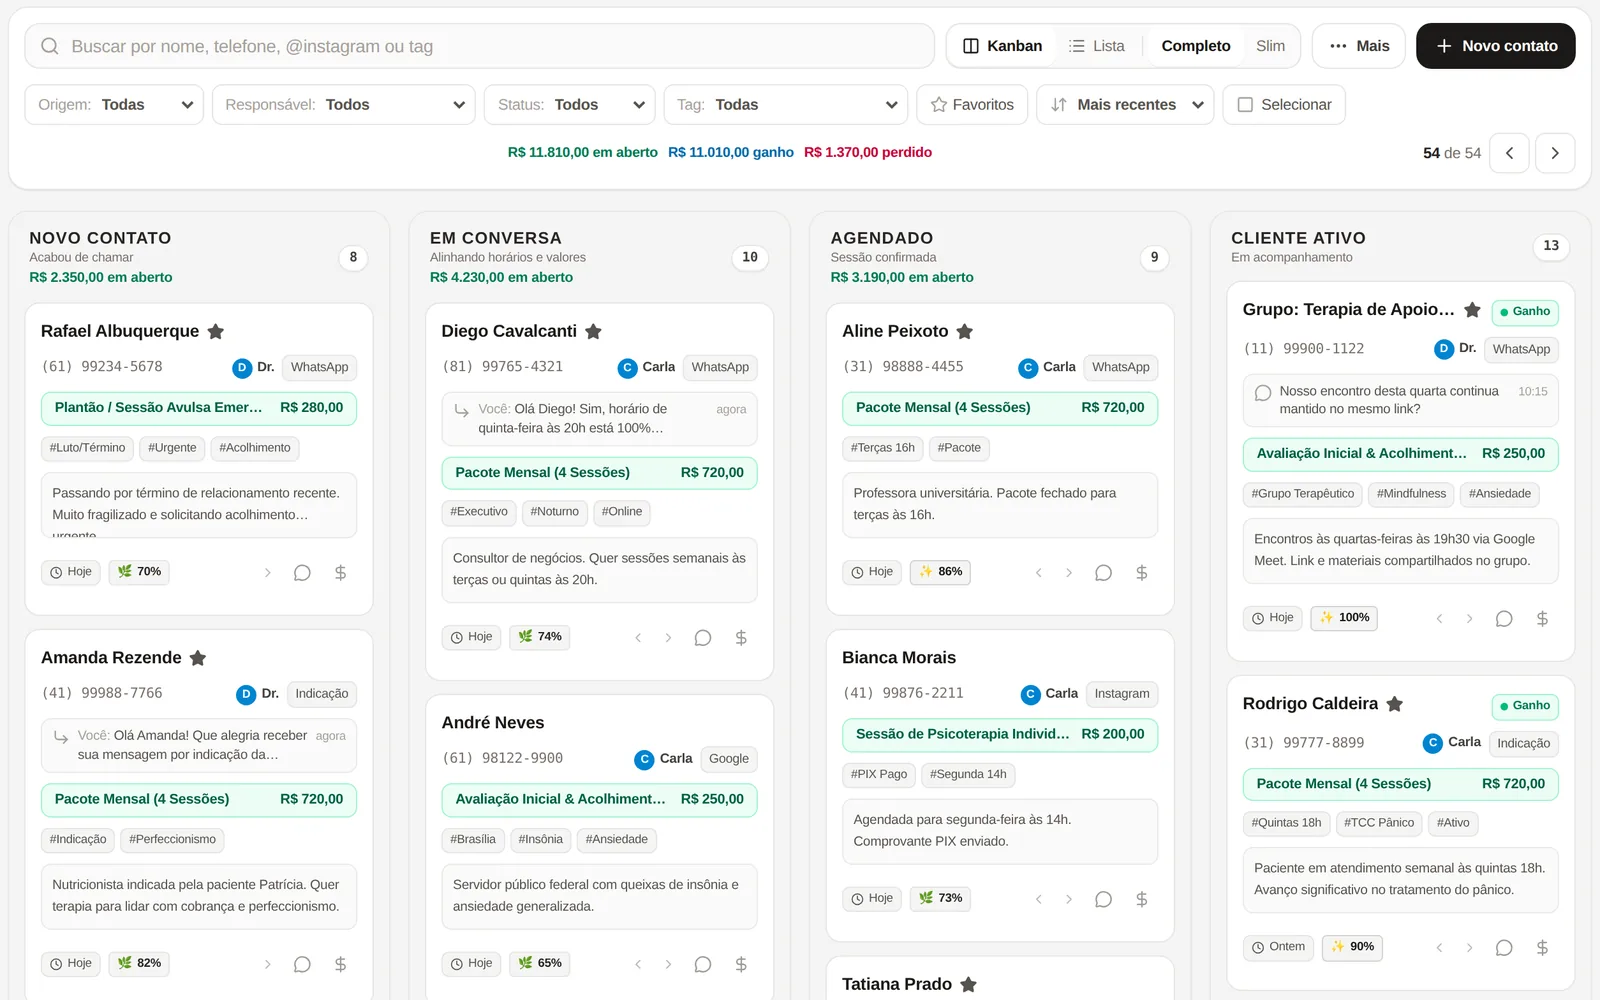
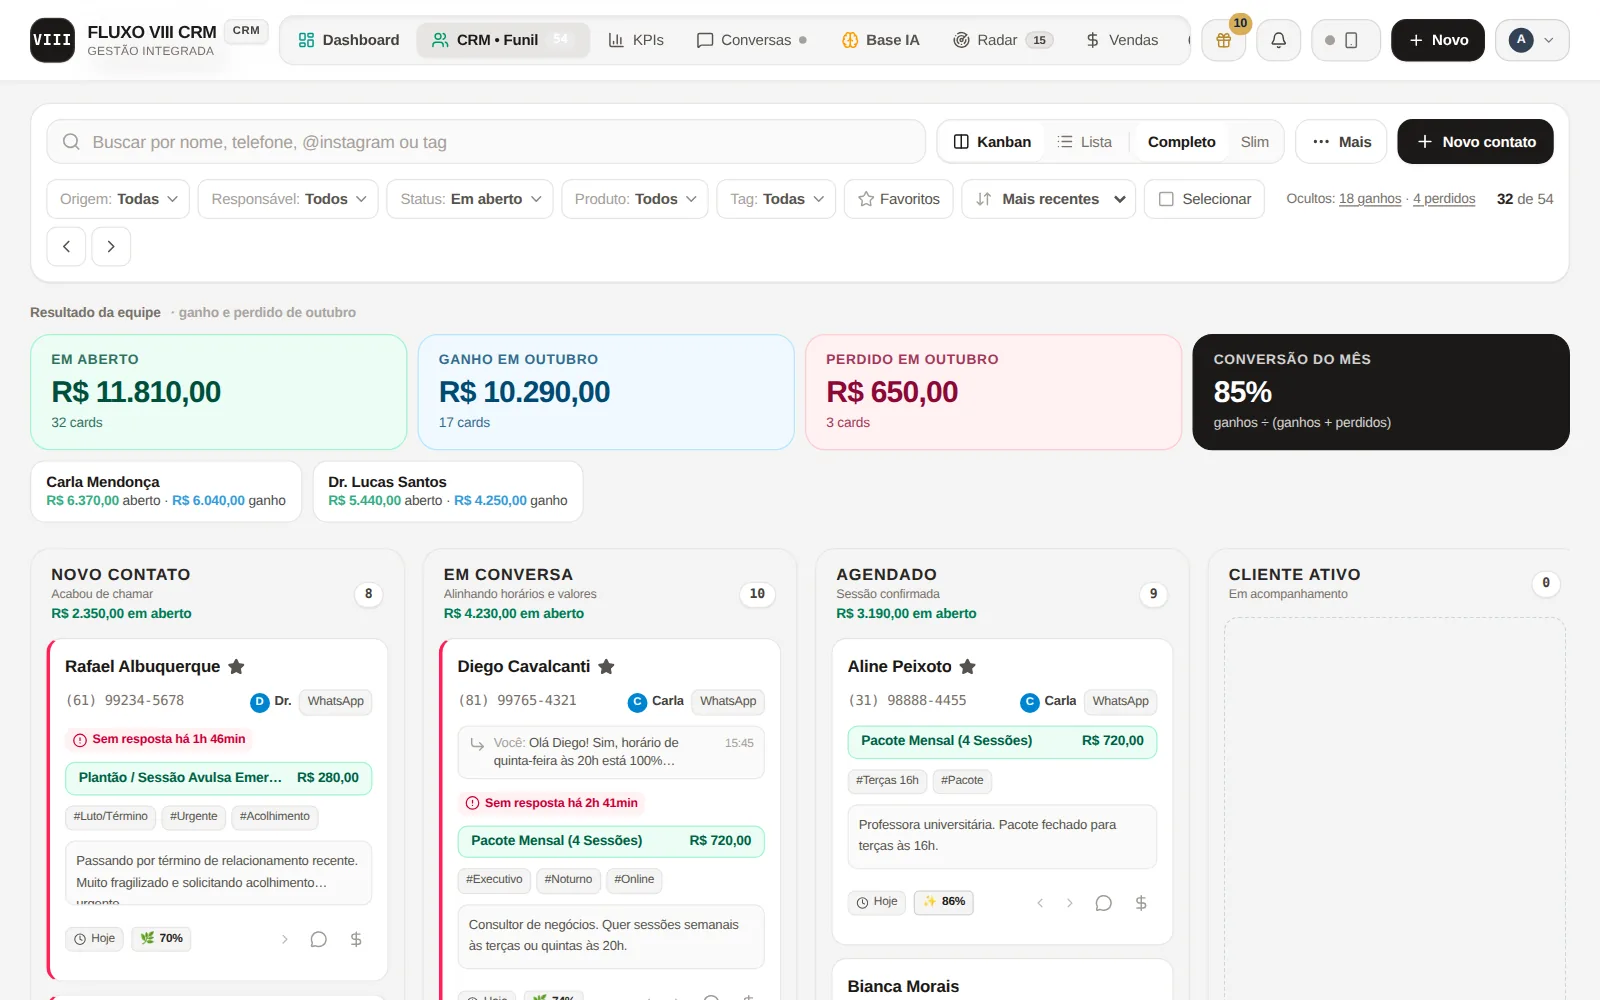
Veja por dentro: prints novos do funil (resultado da equipe), card aberto e painel; aba Radar
Claude-Session: https://claude.ai/code/session_01Lv9fmrgHoT3vaFcuoHhKxR

diff --git a/site.js b/site.js
@@ -601,10 +601,11 @@ if ($("cycle-switch")) {
 // ---------------------------------------------------------------------------
 // Veja por dentro: telas reais do CRM em abas
 var INSIDE = [
-  ["funil", "Funil", "Cada contato vira um card e anda pelas etapas", ["Arraste o card de etapa em etapa e veja onde cada negócio está.", "Produtos e valor no próprio card, e o total em aberto em cada etapa.", "No topo, quanto está em aberto, quanto foi ganho e quanto foi perdido."]],
+  ["funil", "Funil", "Cada contato vira um card e anda pelas etapas", ["Arraste o card de etapa em etapa e veja onde cada negócio está.", "Produtos e valor no próprio card, e o total em aberto em cada etapa.", "No topo, o resultado do mês: em aberto, ganho, perdido, conversão e o placar de cada vendedor."]],
   ["conversas", "Conversas", "WhatsApp e Instagram numa tela só", ["Todas as conversas da equipe, com quem está atendendo cada uma.", "Aviso de atraso quando alguém espera resposta há tempo demais.", "A IA resume a conversa e sugere o próximo passo."]],
-  ["historico", "Histórico do cliente", "Tudo o que aconteceu com cada pessoa", ["Responsável, etapa, status e produtos do card logo no topo.", "Anotações, mensagens, vendas e agendamentos numa linha do tempo.", "Lance a venda ou marque o retorno dali mesmo."]],
+  ["historico", "Histórico do cliente", "Tudo o que aconteceu com cada pessoa", ["Valor, produtos, responsável, etapa e status lado a lado, sem procurar.", "Anotações, mensagens, vendas e agendamentos numa linha do tempo.", "Lance a venda ou marque o retorno dali mesmo."]],
   ["agenda", "Agenda", "Horários que se organizam sozinhos", ["Agenda ligada ao Google Agenda e link com a videochamada.", "Lembrete automático pelo WhatsApp na véspera.", "Link público para o cliente escolher o horário."]],
+  ["radar", "Radar", "Ninguém fica esperando resposta", ["Quem está aguardando você, há quanto tempo e por qual canal.", "Follow-ups pendentes e contatos parados há mais de 7 dias.", "Responder agora com um clique, e aviso no celular quando alguém espera demais."]],
   ["painel", "Painel", "Os números do negócio sem planilha", ["Faturamento, vendas, conversão e tempo de resposta do período.", "Comparação com o período anterior e meta do mês.", "Painel compartilhável com o sócio por link."]],
   ["automacao", "Automação", "Venda ganha, pós-venda começa sozinho", ["Marcou o card como Ganho? O card do pós-venda nasce sozinho no funil do CS.", "Ele já chega em Boas-vindas, com produto, valor e a origem da venda.", "Cada funil com o seu time e o seu número de WhatsApp."]]
 ];

diff --git a/parceiros.html b/parceiros.html
@@ -16,7 +16,7 @@
 <link rel="preconnect" href="https://fonts.googleapis.com">
 <link rel="preconnect" href="https://fonts.gstatic.com" crossorigin>
 <link rel="stylesheet" href="https://fonts.googleapis.com/css2?family=Unbounded:wght@500;600;700&family=Schibsted+Grotesk:wght@400;500;600;700&display=swap">
-<link rel="stylesheet" href="site.css?v=20261016c">
+<link rel="stylesheet" href="site.css?v=20261016d">
 </head>
 <body>
 
@@ -123,6 +123,6 @@
   </div>
 </footer>
 
-<script src="site.js?v=20261016c" defer></script>
+<script src="site.js?v=20261016d" defer></script>
 </body>
 </html>

diff --git a/ficha.html b/ficha.html
@@ -16,7 +16,7 @@
 <link rel="preconnect" href="https://fonts.googleapis.com">
 <link rel="preconnect" href="https://fonts.gstatic.com" crossorigin>
 <link rel="stylesheet" href="https://fonts.googleapis.com/css2?family=Unbounded:wght@500;600;700&family=Schibsted+Grotesk:wght@400;500;600;700&display=swap">
-<link rel="stylesheet" href="site.css?v=20261016c">
+<link rel="stylesheet" href="site.css?v=20261016d">
 </head>
 <body>
 
@@ -97,6 +97,6 @@
   </div>
 </footer>
 
-<script src="site.js?v=20261016c" defer></script>
+<script src="site.js?v=20261016d" defer></script>
 </body>
 </html>

diff --git a/planos.html b/planos.html
@@ -16,7 +16,7 @@
 <link rel="preconnect" href="https://fonts.googleapis.com">
 <link rel="preconnect" href="https://fonts.gstatic.com" crossorigin>
 <link rel="stylesheet" href="https://fonts.googleapis.com/css2?family=Unbounded:wght@500;600;700&family=Schibsted+Grotesk:wght@400;500;600;700&display=swap">
-<link rel="stylesheet" href="site.css?v=20261016c">
+<link rel="stylesheet" href="site.css?v=20261016d">
 </head>
 <body>
 
@@ -95,6 +95,6 @@
   </div>
 </footer>
 
-<script src="site.js?v=20261016c" defer></script>
+<script src="site.js?v=20261016d" defer></script>
 </body>
 </html>

diff --git a/index.html b/index.html
@@ -16,7 +16,7 @@
 <link rel="preconnect" href="https://fonts.googleapis.com">
 <link rel="preconnect" href="https://fonts.gstatic.com" crossorigin>
 <link rel="stylesheet" href="https://fonts.googleapis.com/css2?family=Unbounded:wght@500;600;700&family=Schibsted+Grotesk:wght@400;500;600;700&display=swap">
-<link rel="stylesheet" href="site.css?v=20261016c">
+<link rel="stylesheet" href="site.css?v=20261016d">
 </head>
 <body>
 
@@ -406,6 +406,6 @@
 </footer>
 
 
-<script src="site.js?v=20261016c" defer></script>
+<script src="site.js?v=20261016d" defer></script>
 </body>
 </html>
